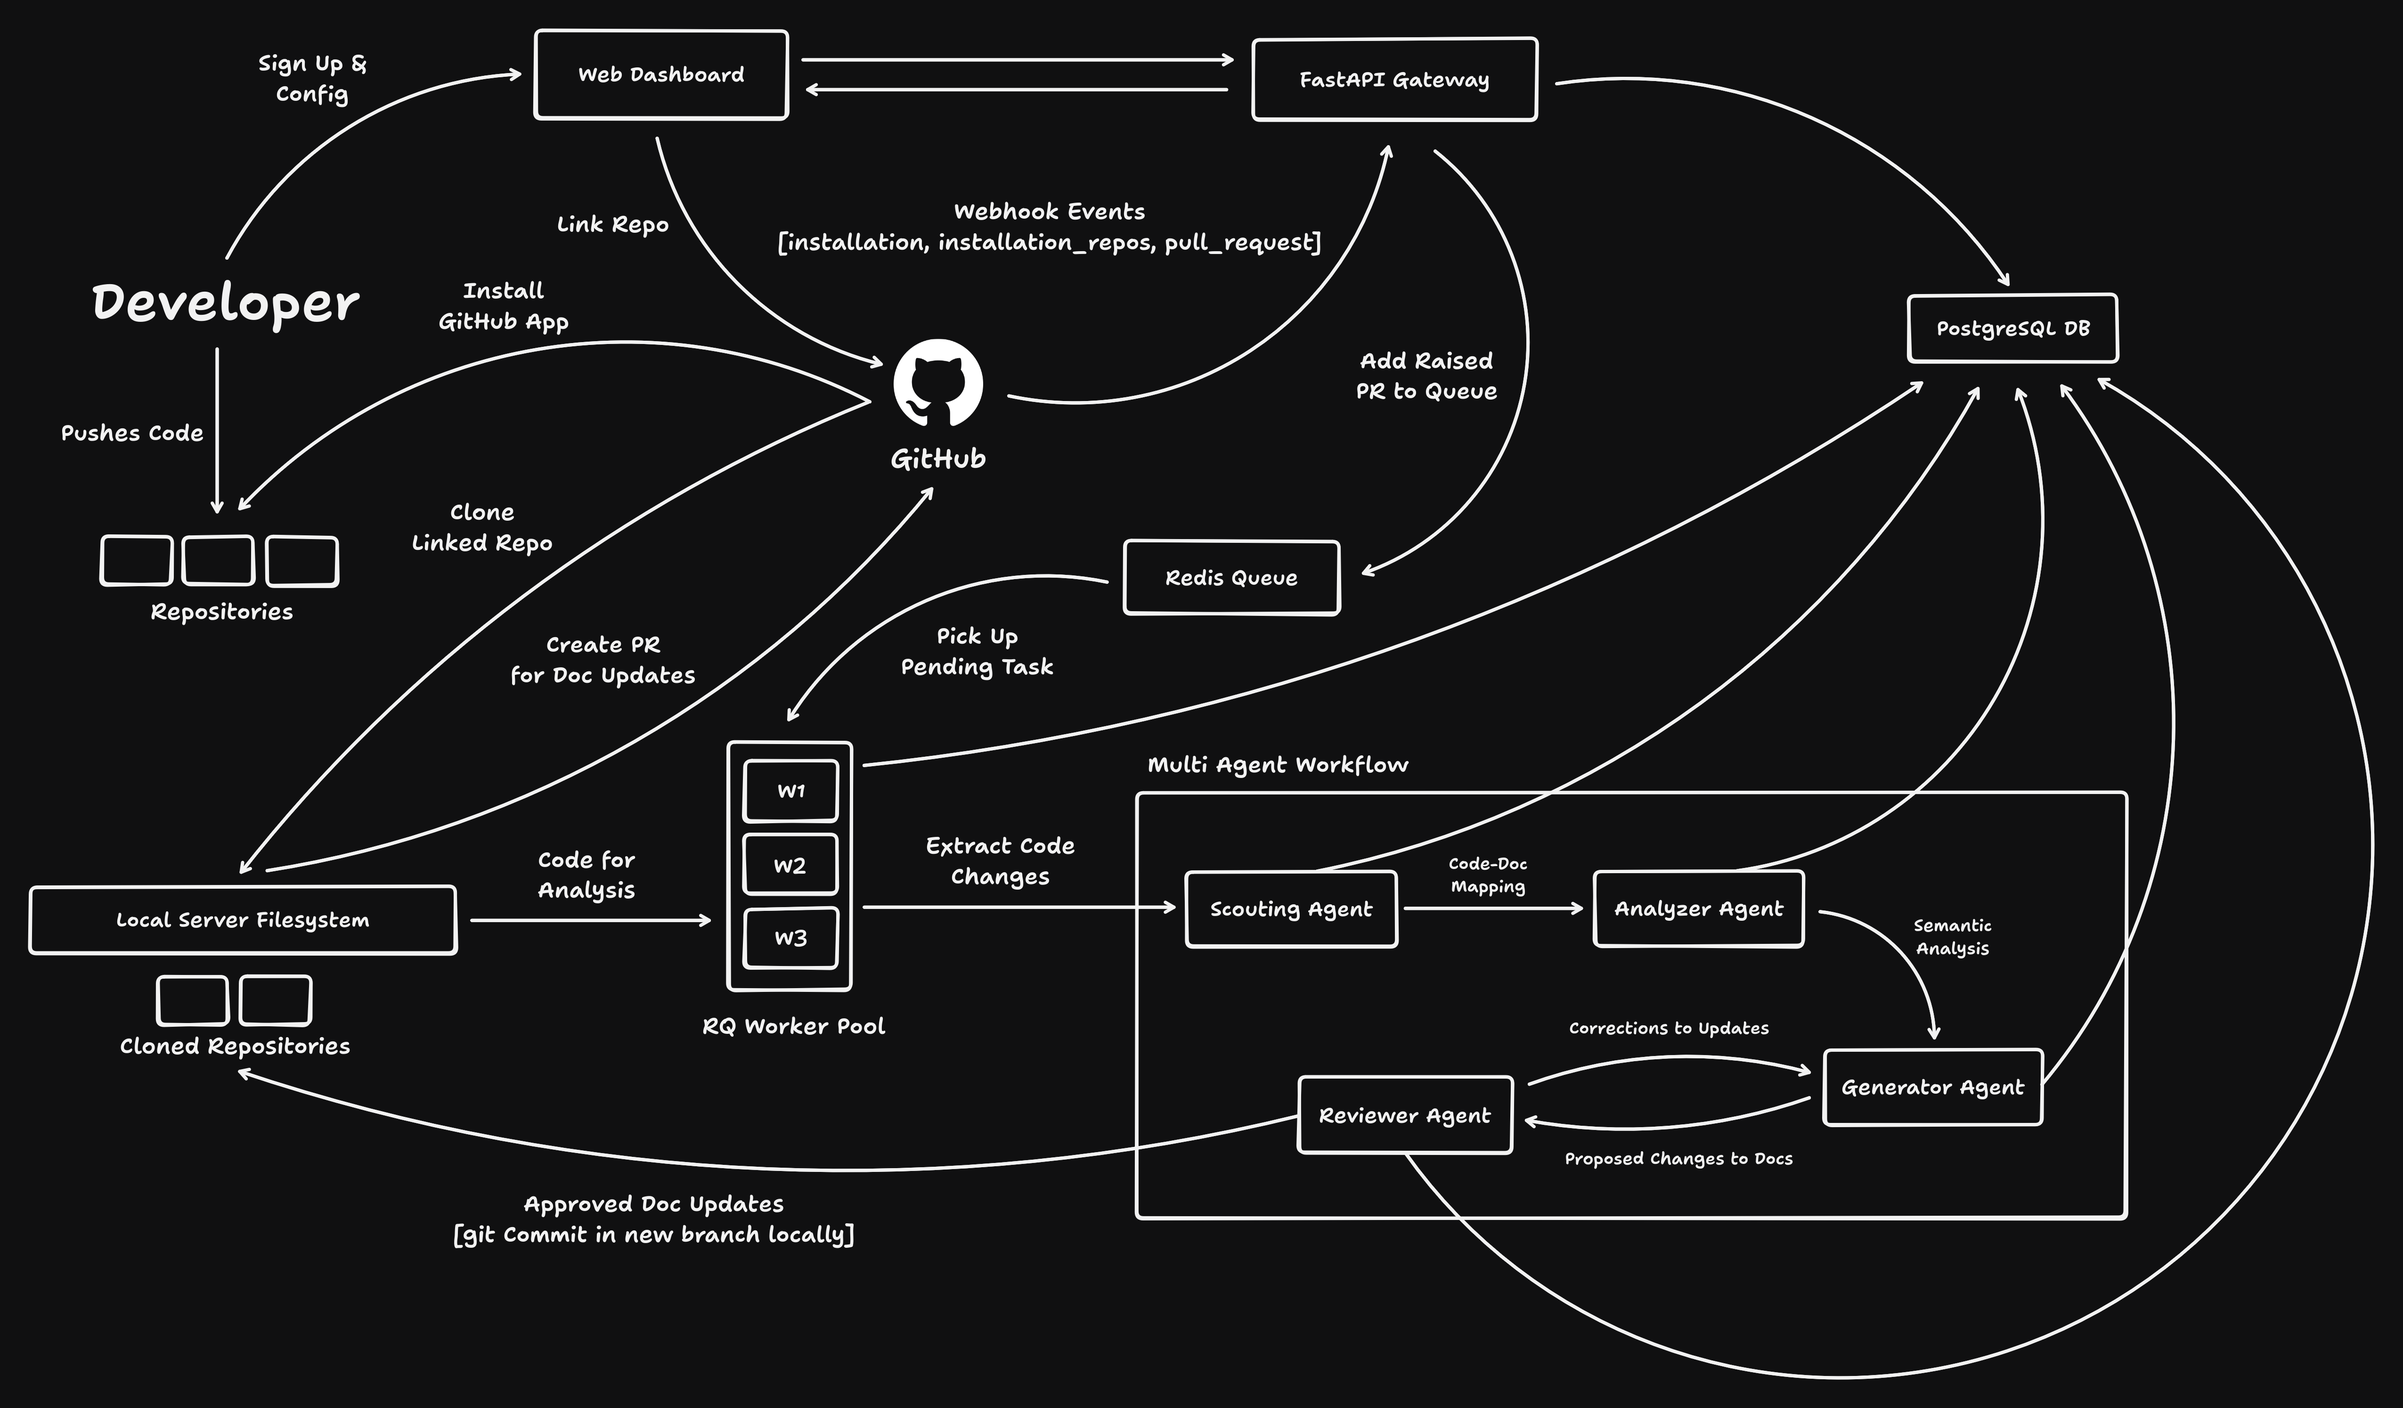
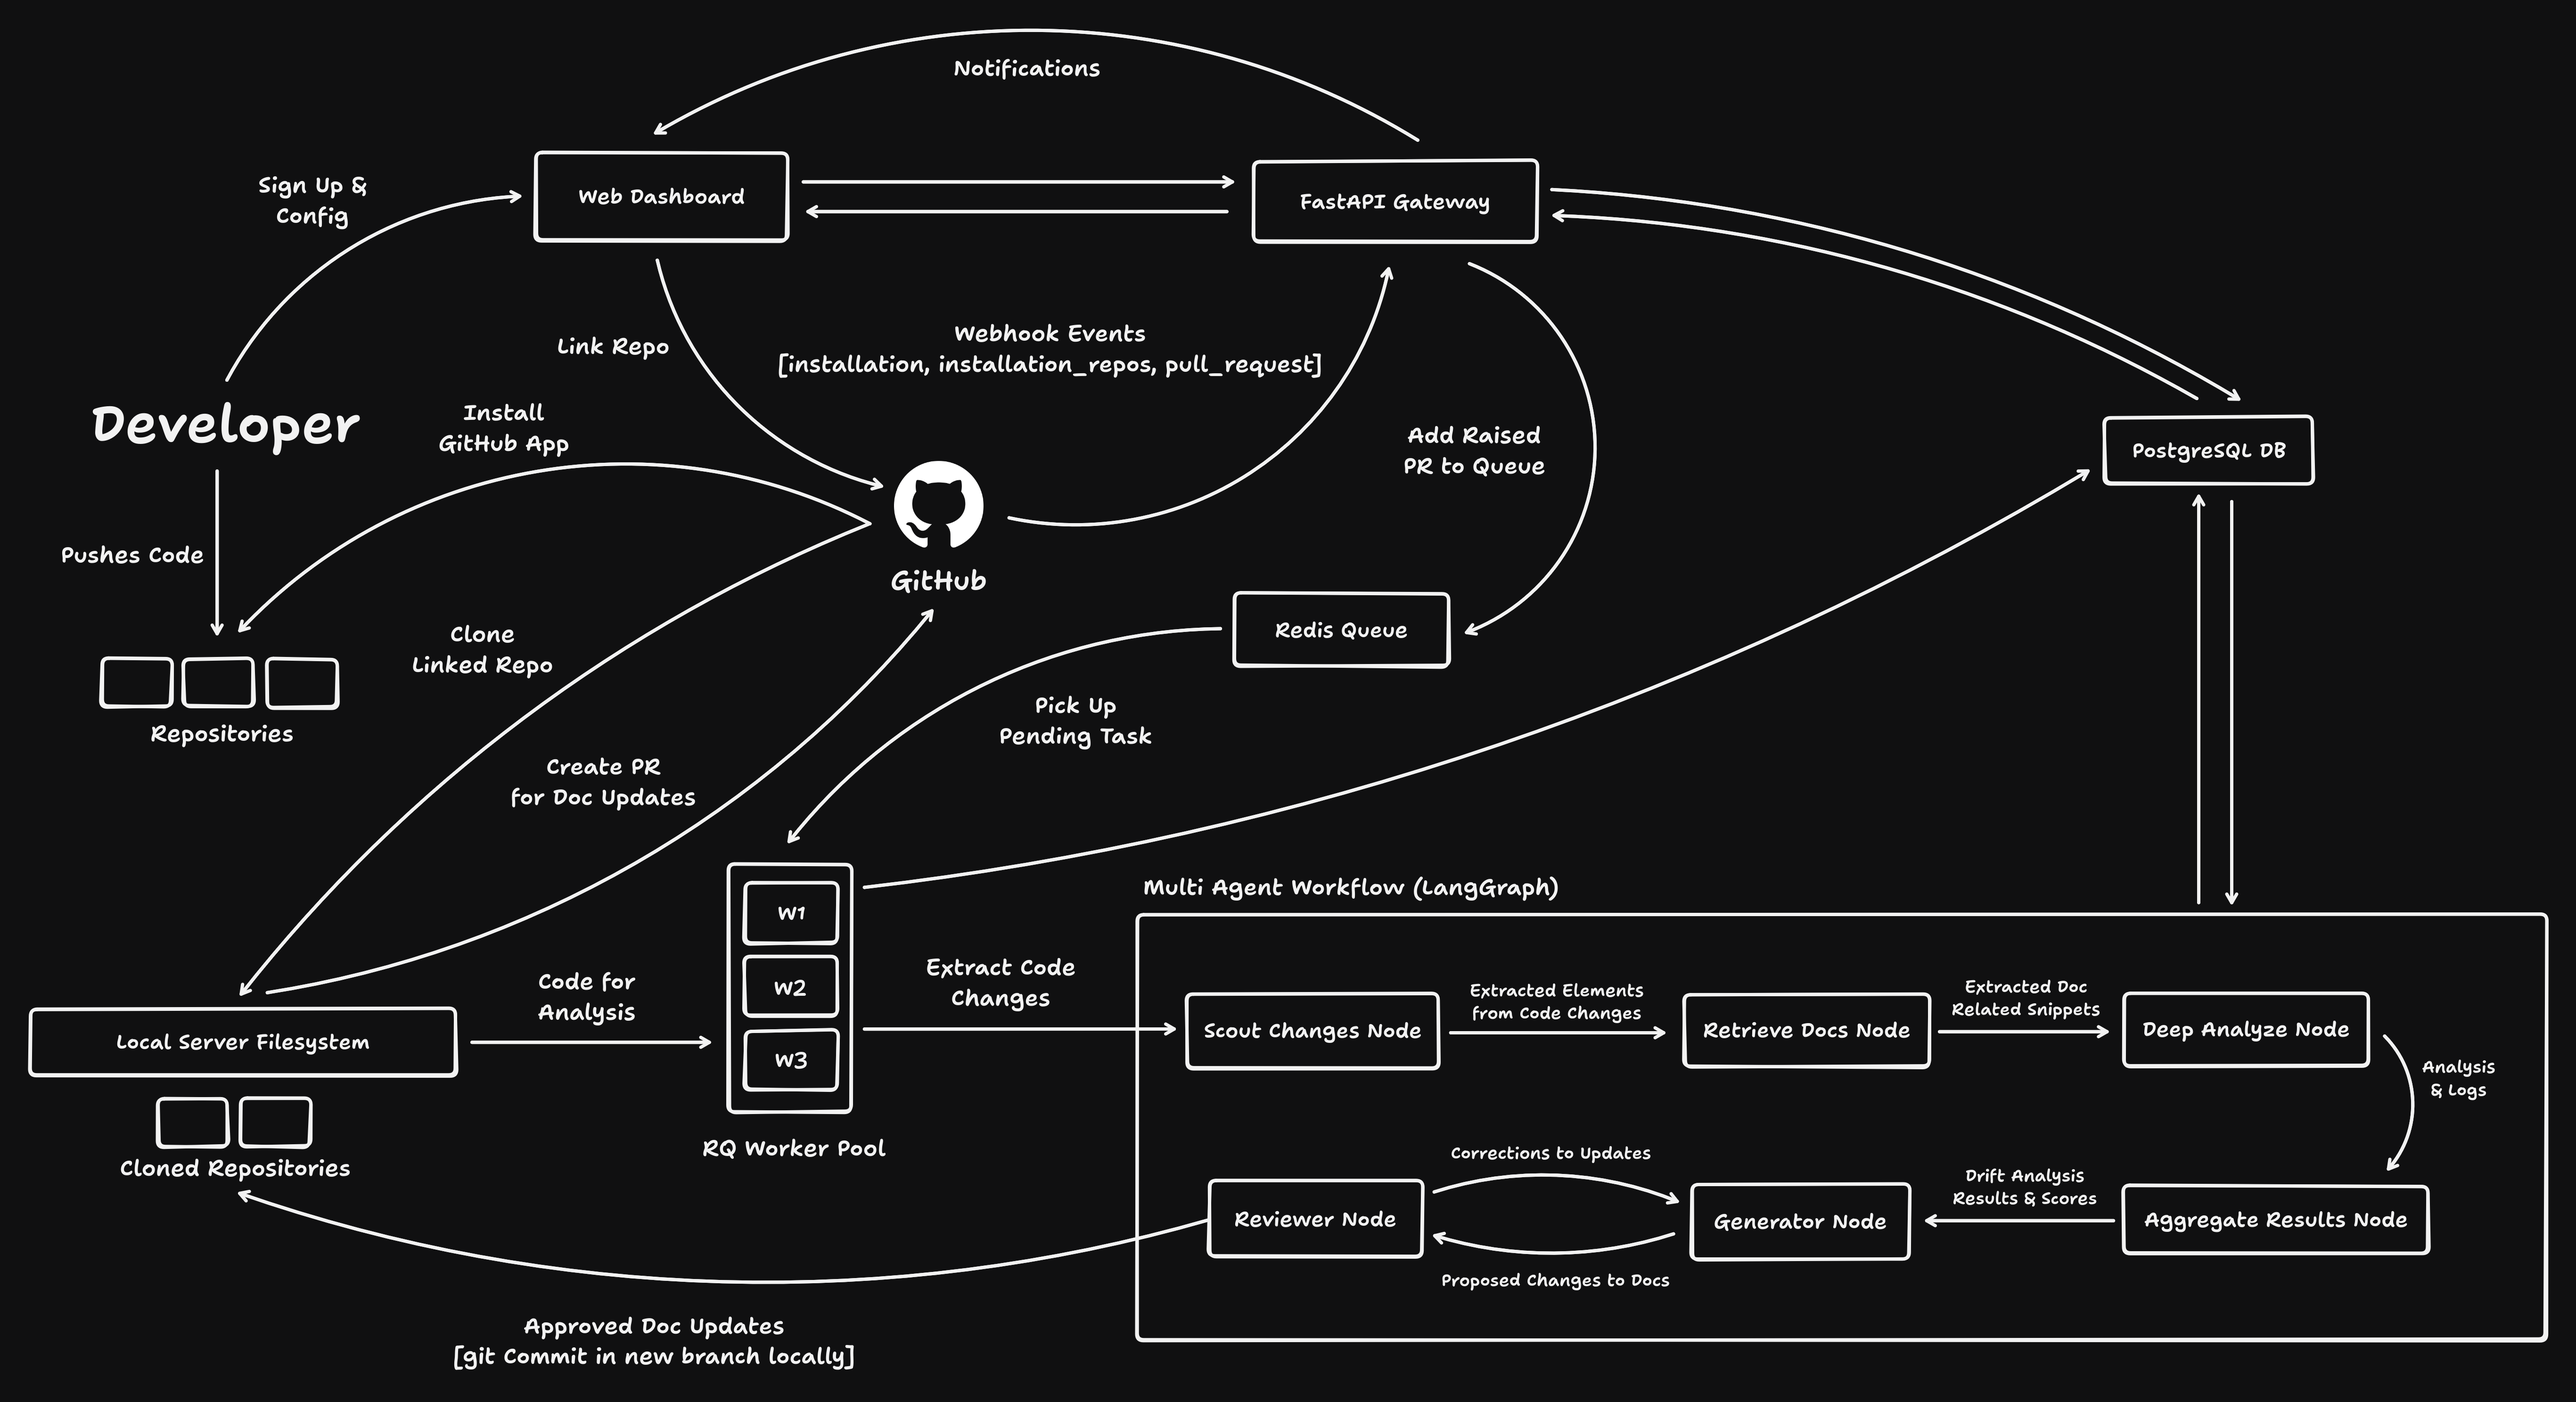
docs: updated documentation

diff --git a/README.md b/README.md
@@ -74,6 +74,10 @@ Delta is a continuous documentation platform that treats documentation as a livi
    FRONTEND_URL="http://localhost:5173"
 
    REPOS_BASE_PATH="/path/to/delta.backend/repos"
+
+   # LLM Config
+   GEMINI_API_KEY="YOUR_GEMINI_API_KEY"
+   LLM_MODEL="gemini-2.5-flash"
    ```
 
 4. **Run setup command**
@@ -182,55 +186,56 @@ The plan is a 4 agent workflow with `LangGraph` as the orchestrator:
 
 ```
 delta.backend/
-├── alembic/                             # Database migrations
-│   ├── versions/                        # Migration files
-│   ├── env.py                           # Alembic environment config
-│   └── script.py.mako                   # Migration template
-│
-├── app/                                 # Main application code
-│   ├── agents/                          # LangGraph multi-agent workflow
-│   │   ├── graph.py                     # LangGraph workflow graph
-│   │   ├── prompts.py                   # Agent prompts
-│   │   ├── state.py                     # Workflow state definitions
-│   │   └── nodes/                       # Agent nodes
-│   │
-│   ├── core/                            # Core functionality
-│   │         
-│   ├── db/                              # Database configuration
-│   │   ├── base.py                      # Import all models
-│   │   ├── base_class.py                # SQLAlchemy declarative base
-│   │   └── session.py                   # Database session factory
-│   │         
-│   ├── models/                          # SQLAlchemy models (Schema)
-│   ├── routers/                         # API route handlers
-│   ├── schemas/                         # Pydantic schemas
-│   ├── services/                        # Business logic
-│   │         
-│   ├── api.py                           # API router aggregation
-│   ├── deps.py                          # Dependency injection
-│   └── main.py                          # FastAPI application entry point
-│
-├── bruno/                               # API testing (Bruno client)
-│   ├── auth/                            # Auth request collection
-│   ├── dashboard/                       # Dashboard request collection
-│   ├── environments/                    # Bruno environments
-│   └── repos/                           # Repos request collection
-│
-├── docs/                                # Markdown files for documentation
-├── images/                              # Diagrams that are shown in docs
-├── keys/                                # GitHub App private key (gitignored)
-├── repos/                               # Cloned repositories (gitignored)
-├── tests/                               # Unit & Integration tests
-│         
-├── .env                                 # Environment variables (gitignored)
-├── alembic.ini                          # Alembic configuration
-├── docker-compose.yml                   # Docker services definition
-├── Makefile                             # Development commands
-├── pytest.ini                           # Pytest configuration
-├── pyrefly.toml                         # Pyrefly configuration
-├── ruff.toml                            # Ruff configuration
-├── requirements.txt                     # Python dependencies
-└── workers.py                           # Script to run fixed number of RQ workers
+   ├── alembic/                             # Database migrations
+   │   ├── versions/                        # Migration files
+   │   ├── env.py                           # Alembic environment config
+   │   └── script.py.mako                   # Migration template
+   │
+   ├── app/                                 # Main application code
+   │   ├── agents/                          # LangGraph multi-agent workflow
+   │   │   ├── nodes/                       # Agent nodes
+   │   │   ├── graph.py                     # LangGraph workflow graph
+   │   │   ├── prompts.py                   # Agent prompts
+   │   │   └──  state.py                    # Workflow state definitions
+   │   │
+   │   ├── core/                            # Core functionality
+   │   │         
+   │   ├── db/                              # Database configuration
+   │   │   ├── base.py                      # Import all models
+   │   │   ├── base_class.py                # SQLAlchemy declarative base
+   │   │   └── session.py                   # Database session factory
+   │   │         
+   │   ├── models/                          # SQLAlchemy models (Schema)
+   │   ├── routers/                         # API route handlers
+   │   ├── schemas/                         # Pydantic schemas
+   │   ├── services/                        # Business logic
+   │   │         
+   │   ├── api.py                           # API router aggregation
+   │   ├── deps.py                          # Dependency injection
+   │   └── main.py                          # FastAPI application entry point
+   │
+   ├── bruno/                               # API testing (Bruno client)
+   │   ├── auth/                            # Auth request collection
+   │   ├── dashboard/                       # Dashboard request collection
+   │   ├── environments/                    # Bruno environments
+   │   └── repos/                           # Repos request collection
+   │
+   ├── docs/                                # Markdown files for documentation
+   ├── images/                              # Diagrams for Delta documentation
+   ├── tests/                               # Unit & Integration tests
+   │         
+   ├── .env.example                         # Sample .env file
+   ├── .gitignore                           # Git ignore rules
+   ├── alembic.ini                          # Alembic configuration
+   ├── docker-compose.yml                   # Docker services definition
+   ├── LICENSE                              # MIT License
+   ├── Makefile                             # Development commands
+   ├── pyrefly.toml                         # Pyrefly configuration
+   ├── pytest.ini                           # Pytest configuration
+   ├── README.md                            # Project documentation
+   ├── requirements.txt                     # Python dependencies
+   ├── ruff.toml                            # Ruff configuration
+   └── workers.py                           # Script to run the RQ workers
 ```
 
 

diff --git a/docs/API_DOCUMENTATON.md b/docs/API_DOCUMENTATON.md
@@ -1,9 +1,5 @@
 # API Endpoints
 
-## Base URL
-- **Development**: `http://localhost:8000/api`
-- **Production**: `https://production-domain.com/api`
-
 ## Authentication Endpoints (`/api/auth`)
 
 ### POST `/auth/signup`
@@ -278,3 +274,7 @@ Delete all notifications for the authenticated user.
   "message": "All notifications deleted"
 }
 ```
+
+## API Testing
+
+[Bruno](https://www.usebruno.com/) can be used as the API testing client. Pre-configured `.bru` collection files for all endpoints are available in the [`/bruno`](../bruno) directory.
